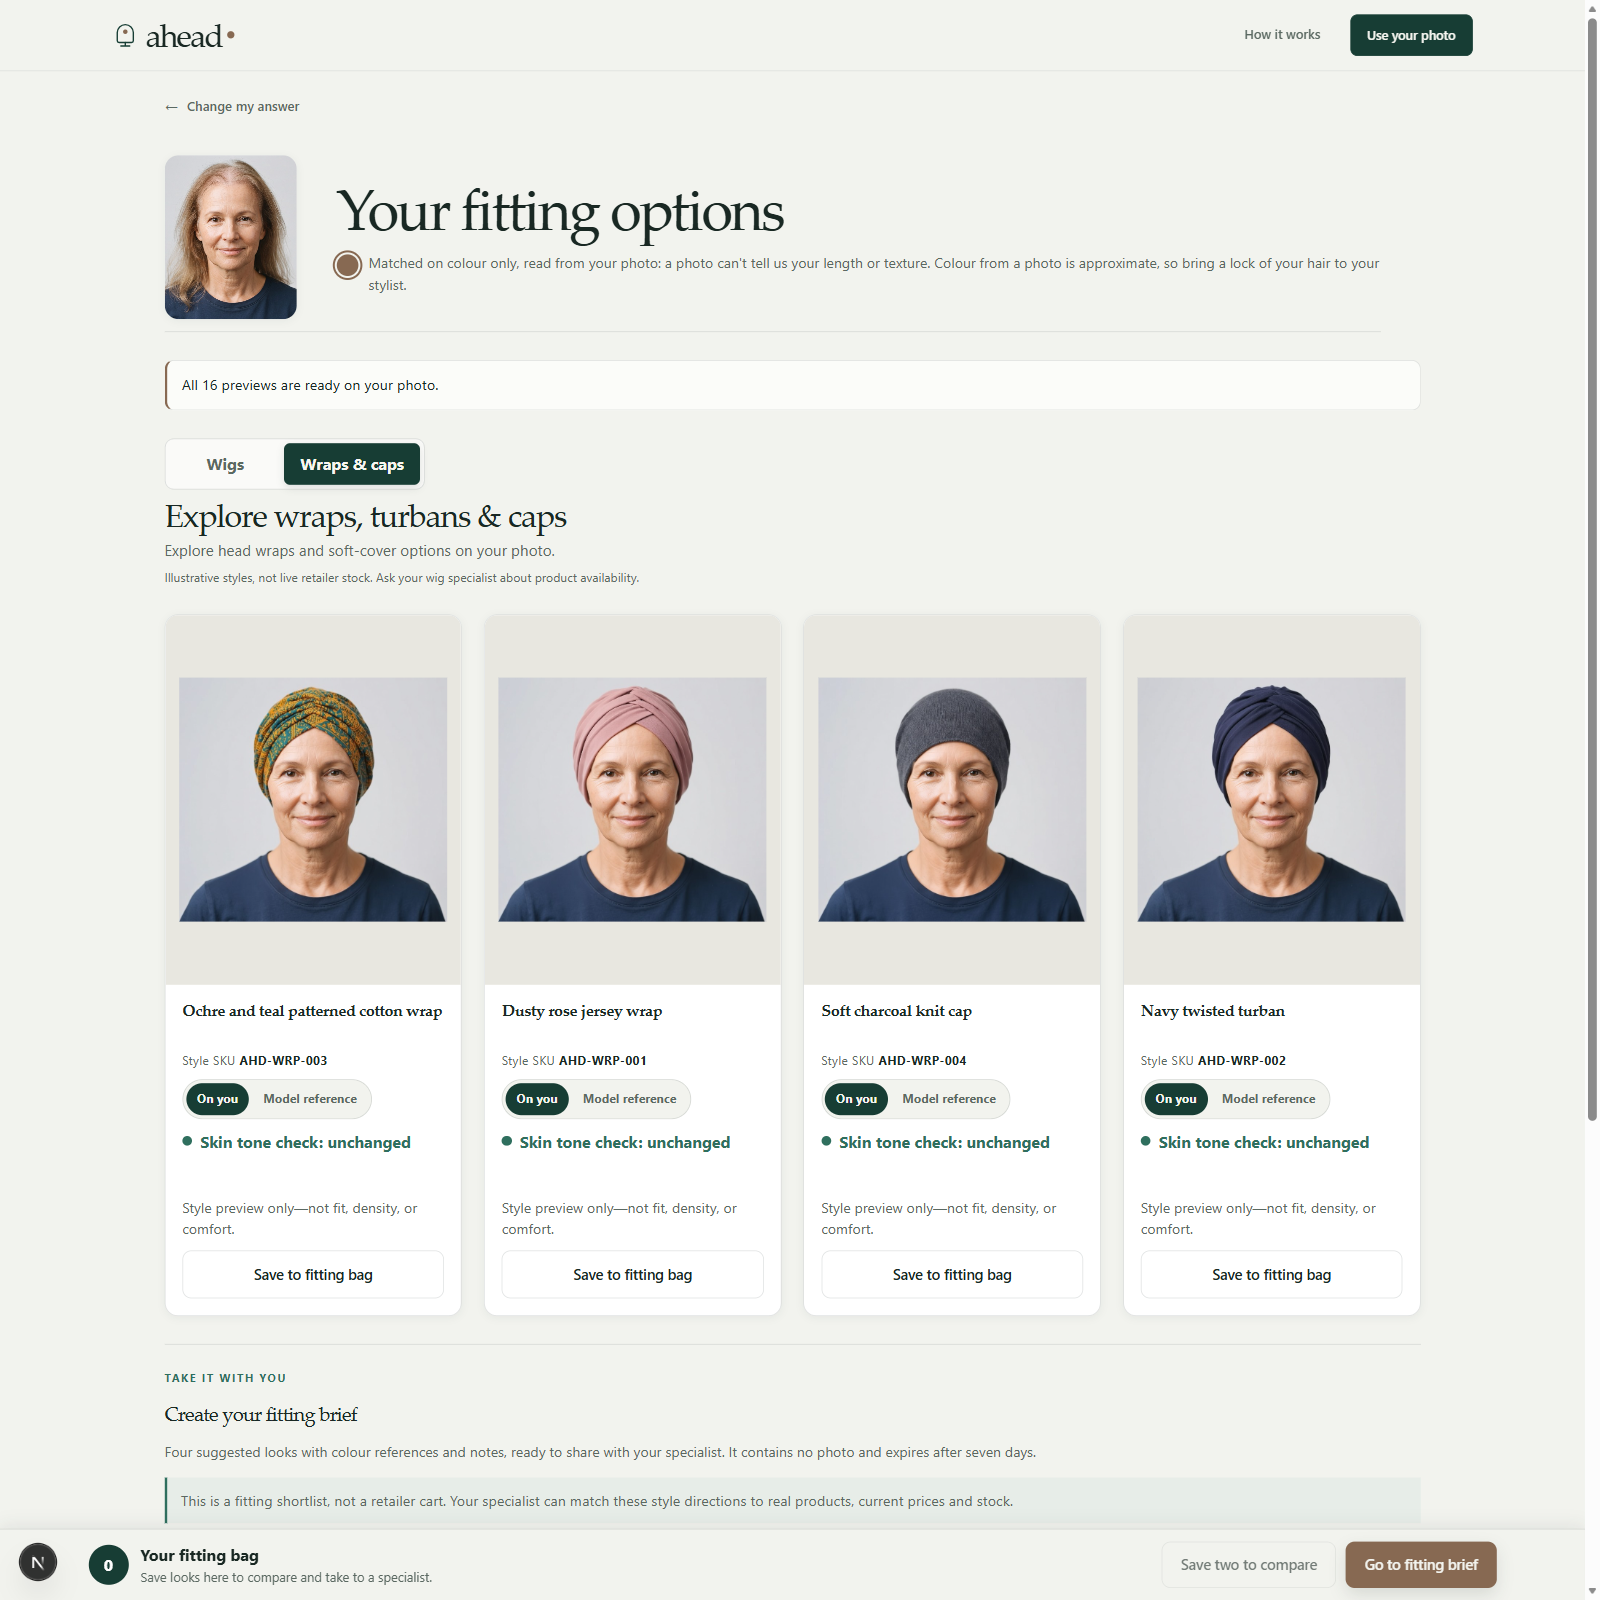
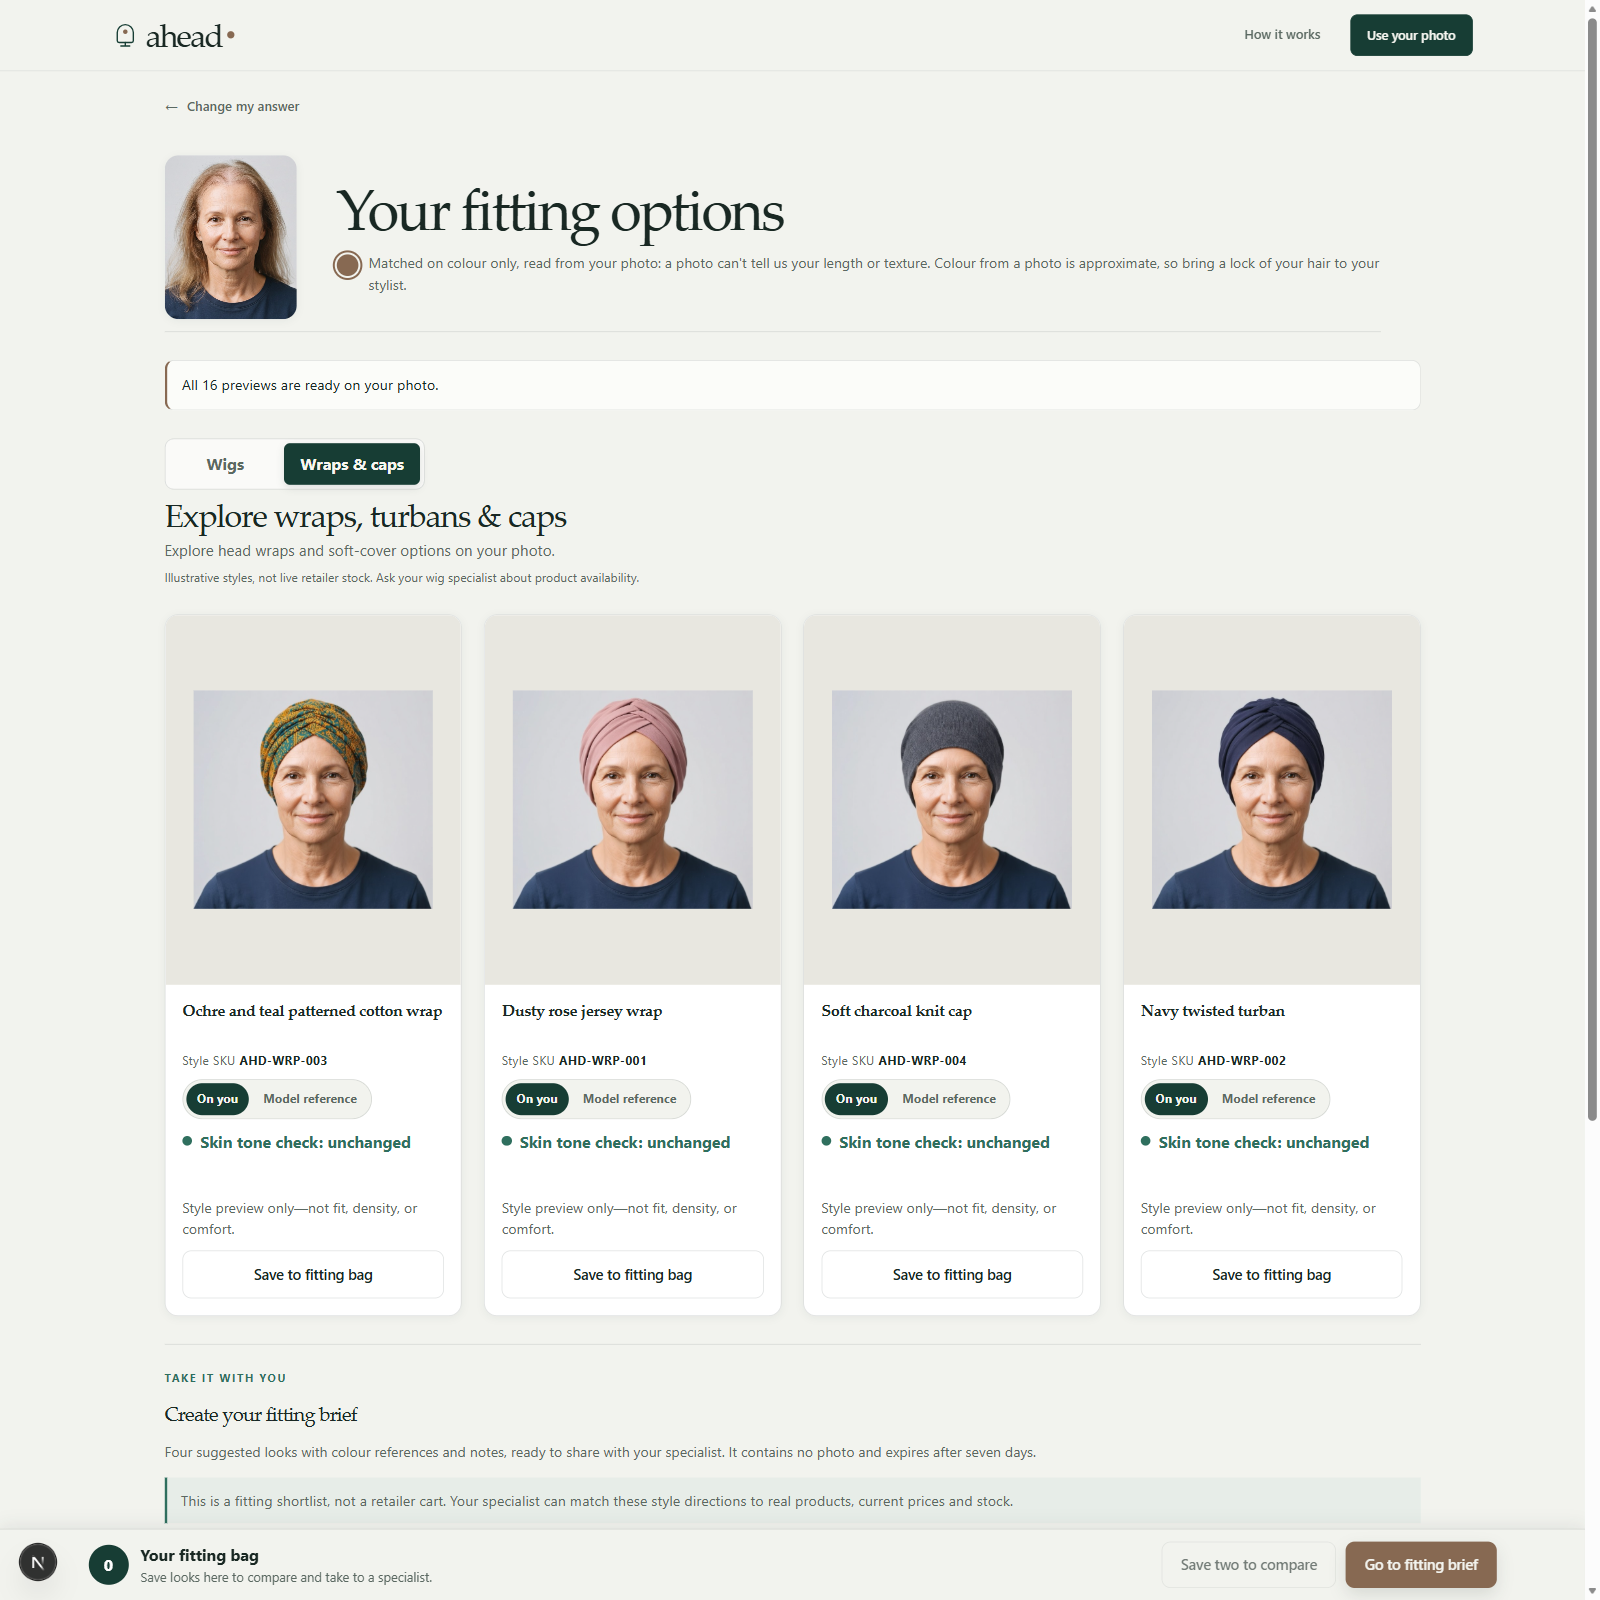
Give wig previews more room in result cards

diff --git a/components/results/results.module.css b/components/results/results.module.css
@@ -133,7 +133,7 @@
   /* Keep a little breathing room around generated wraps and wigs. Some YouCam outputs
      place the garment/hair right at the image edge; the inset prevents the card frame
      from visually shaving off those outer strands or fabric folds. */
-  padding: clamp(8px, 1vw, 14px);
+  padding: clamp(8px, 1vw, 14px) clamp(18px, 2vw, 28px);
   overflow: hidden;
   border-radius: 0;
   background: #e8e7e0;

diff --git a/README.md b/README.md
@@ -32,7 +32,7 @@ For an own-photo try-on, choose **Use your photo**, review the consent, upload a
 
 ## Ahead in the browser
 
-Upload one portrait to explore 12 wig styles or 4 wraps and caps. These screenshots are from the working results page after all 16 saved YouCam Hair Transfer renders finished. Each card keeps the complete render in frame and shows its style code, model reference, skin-tone check, comparison action, and fitting-brief path.
+Upload one portrait to explore 12 wig styles or 4 wraps and caps. These screenshots are from the working results page after all 16 saved YouCam Hair Transfer renders finished. A generous side inset keeps the full hair silhouette visible in every card; style codes, model references, skin-tone checks, comparison, and fitting actions stay close at hand.
 
 ### Wig lookbook · 12 styles
 
